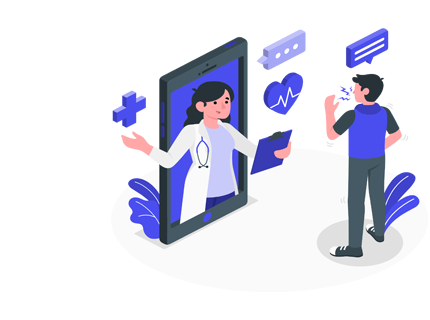
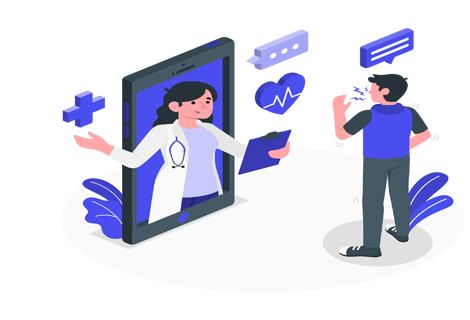
checkin

Changed region(s): [[0.1209, 0.0625, 0.9977, 0.8438]]

diff --git a/plans/startassure-elite.html b/plans/startassure-elite.html
@@ -20,6 +20,12 @@
      <link rel="stylesheet" type="text/css" href="css/style.css">
   
 <script src="https://cdn.jsdelivr.net/npm/bootstrap@4.5.3/dist/js/bootstrap.min.js" integrity="sha384-w1Q4orYjBQndcko6MimVbzY0tgp4pWB4lZ7lr30WKz0vr/aWKhXdBNmNb5D92v7s" crossorigin="anonymous"></script>
+
+<link rel="stylesheet" type="text/css" href="https://cdn.jsdelivr.net/gh/kenwheeler/slick@1.8.1/slick/slick-theme.css" />
+<link rel="stylesheet" type="text/css" href="https://cdn.jsdelivr.net/npm/slick-carousel@1.8.1/slick/slick.css" />
+<script type="text/javascript" src="https://cdn.jsdelivr.net/npm/slick-carousel@1.8.1/slick/slick.min.js"></script>
+
+
   
 </head>
 
@@ -51,7 +57,7 @@
   <section >
      <div class="container">
             <div class="row py-2 px-3 px-md-0">
-             <div class="col-12 col-md-6 col-sm-12 col-lg-6 col-xl-6 col-xxl-6" style="padding-bottom:50px;">
+             <div class="col-12 col-md-5 col-sm-12 col-lg-5 col-xl-5 col-xxl-5" style="padding-bottom:50px;">
          <p class=" mt-5 pl-4" style="padding-top:90px;letter-spacing: 1px; font-size:22px;">Jab HEALTH Rahe Sahi, <br> Toh Aap Rahe CAREFREE </p>
 <h2  style="font-size:55px;"> StartAssure </h2>
 <div class="pt-2">
@@ -67,52 +73,47 @@
 </div>
 </div>
  </div>
-<div class="col-12 col-md-6 col-sm-12 col-lg-5 col-xl-5 col-xxl-5 my-5 ">
+<div class="col-12 col-md-7 col-sm-12 col-lg-7 col-xl-7 col-xxl-7  ">
     <img src="images/online-doctor.png" class="img-fluid" style="padding-top:80px;">
      </div>
 </div>
-       
-            <div class="row">
-                <div class="col-sm-12 col-md-4 col-lg-2 col-xl-2 col-xxl-2">
-                    <div class="benefits text-center">
-                        <img src="images/doctor.png" class="img-fluid">
-                    </div>
-                    <p class="text-center pt-2"> Doctor on Call </p>
-                </div>
-                <div class="col-sm-12 col-md-4 col-lg-2 col-xl-2 col-xxl-2">
-                    <div class="benefits text-center">
-                        <img src="images/careteam.png" class="img-fluid">
-                    </div>
-                    <p class="text-center pt-2"> Care Team</p>
-                </div>
-                <div class="col-sm-12 col-md-4 col-lg-2 col-xl-2 col-xxl-2">
-                    <div class="benefits text-center">
-                        <img src="images/hospital.png" class="img-fluid">
-                    </div>
-                    <p class="text-center pt-2"> Hospicash </p>
-                </div>
-                <div class="col-sm-12 col-md-4 col-lg-2 col-xl-2 col-xxl-2">
-                    <div class="benefits text-center">
-                        <img src="images/i1.png" class="img-fluid">
-                    </div>
-                    <p class="text-center pt-2"> Lab Test & Scans </p>
+   </div>
+    </section>
+    <section style="background-color:#00a4fe;">
+         <div class="items">
+ 
+   <div class="service1 ">
+              <img src="images/doctor.png" class="img-fluid text-center">
+                  <p class="text-center pt-2"> Doctor on Call </p>
                 </div>
 
-                <div class="col-sm-12 col-md-4 col-lg-2 col-xl-2 col-xxl-2">
-                    <div class="benefits text-center">
-                        <img src="images/medicines.png" class="img-fluid">
-                    </div>
-                    <p class="text-center pt-2">Pharmacy & Medicines </p>
+                <div class=" service1 text-center">
+              <img src="images/hospital.png" class="img-fluid text-center">
+                  <p class="text-center pt-2">Hospicash </p>
                 </div>
-                <div class="col-sm-12 col-md-4 col-lg-2 col-xl-2 col-xxl-2">
-                    <div class="benefits text-center">
-                        <img src="images/tele-doctor.png" class="img-fluid">
-                    </div>
-                    <p class="text-center pt-2"> Online Gym & Wellness </p>
+
+                <div class=" service1 text-center">
+              <img src="images/i1.png" class="img-fluid text-center">
+                  <p class="text-center pt-2"> Lab Test & Scans </p>
                 </div>
-            </div>
-       </div>
+ <div class=" service1 text-center">
+              <img src="images/careteam.png" class="img-fluid text-center">
+                  <p class="text-center pt-2"> Care Team </p>
+                </div>
+  <div class=" service1 text-center">
+              <img src="images/panindia.png" class="img-fluid">
+                  <p class="text-center pt-2"> Pan India Coverage </p>
+                </div>
+ <div class=" service1 text-center">
+              <img src="images/clock.png" class="img-fluid">
+                  <p class="text-center pt-2">24*7 Support Team </p>
+                </div>
+ 
+</div>
     </section>
+
+
+
 
 
 <section class="py-3 px-3 px-md-0 " id="benefits">
@@ -432,51 +433,7 @@
                     </div>
                     <div class="row mt-3 d-flex">
 
-                       <!-- <div class="col-md-6">
-                                <div class="desk1 ml-4 ">
-                                    <div class="mt-4 footerbtn">
-                                        <a href="corporate-wellness.html" target="_blank" class=" border-green1 ">
-                                            Corporates
-                                            <i class="fa fa-chevron-right ml-2 text-right pl-109"></i>
-                                        </a>
-                                    </div>
-                                    <div class="mt-4 footerbtn">
-                                        <a href="insurance.html" target="_blank" class=" border-green1  ">
-                                            Insurance
-                                            Companies <i class="fa fa-chevron-right ml-2 pl-2 pb-2 pt-2"></i>
-                                        </a>
-                                    </div>
-                               </div>
-                            </div>
-                            <div class="col-md-6 ">
-                          <div class="desk1 ml-4  ">
-                                    <div class="mt-4 footerbtn">
-                                        <a href="agents.html" target="_blank" class=" border-green1 ">
-                                            Agents <i class="fa fa-chevron-right ml-2  pl-148"></i>
-                                        </a>
-                                    </div>
-                                    <div class="mt-4 footerbtn">
-                                        <a href="provider.html" target="_blank" class=" border-green1 ">
-                                            Providers <i class="fa fa-chevron-right ml-2 pt-2 pl-123 "></i>
-                                        </a>
-                                    </div>
-                                </div>
-                       </div> -->
-                <!-- <div class="col-md-12 d-flex justify-space-between w-100 mob1 ">
-                                <a href="corporate-wellness.html" target="_blank"
-                                   class="btn-class border-green1 ">
-                                    Corporates <i class="fa fa-chevron-right  float-right pt-2"></i>
-                                </a>
-                                <a href="insurance.html" target="_blank" class=" border-green1">
-                                    Insurance Companies <i class="fa fa-chevron-right  pl-3 pt-2 float-right"></i>
-                                </a>
-                                <a href="agents.html" target="_blank" class="btn-class border-green1 ">
-                                    Agents <i class="fa fa-chevron-right   float-right pt-2"></i>
-                                </a>
-                                <a href="provider.html" target="_blank" class="btn-class border-green1 ">
-                                    Providers <i class="fa fa-chevron-right  pt-2 float-right"></i>
-                                </a>
-                            </div> -->
+                  
                     </div>
 
                     <div class="row mt-5">
@@ -561,6 +518,53 @@
             </div>
         </div>
     </section>
+
+
+
+
+<script >
+    
+$(document).ready(function(){
+
+$('.items').slick({
+dots: false,
+infinite: true,
+speed: 800,
+autoplay: true,
+autoplaySpeed: 800000,
+slidesToShow: 3,
+slidesToScroll: 3,
+responsive: [
+{
+breakpoint: 1024,
+settings: {
+slidesToShow: 3,
+slidesToScroll: 3,
+infinite: true,
+dots: true
+}
+},
+{
+breakpoint: 600,
+settings: {
+slidesToShow: 2,
+slidesToScroll: 2
+}
+},
+{
+breakpoint: 480,
+settings: {
+slidesToShow: 1,
+slidesToScroll: 1
+}
+}
+
+]
+});
+});
+
+
+</script>
 
 </body>
 

diff --git a/plans/css/style.css b/plans/css/style.css
@@ -5305,7 +5305,7 @@ li {
 
 .demo,h4{padding:30px 0}
 .pricingTable,h4{text-align:center}
-body{padding:0;margin:0}
+
 .demo{background:#B2B2B2}
 h4{color:#444}
 .pricingTable{background:#fff;border-radius:10px;overflow:hidden;position:relative;transition:all .3s ease 0s}
@@ -5541,6 +5541,30 @@ h4{color:#444}
     padding:6px;
 }
 
+
+.service1{
+  border-radius:none;
+    height:130px;
+    padding:6px;
+    color: #ffffff;
+    font-weight:600;
+    font-size: 18px;
+}
+
+.service1:hover{
+    background-color:#eaeaea;
+    box-shadow: 0px 5px 10px 0px rgb(0 0 0 / 20%);
+    border-radius:none;
+   padding:6px;
+   color: #000000;
+  
+   
+}
+.service1 img{
+    width: 50px;
+    margin: auto;
+}
+
 .fa-1{
     font-size:9px; 
     vertical-align: middle;
@@ -5574,4 +5598,117 @@ h4{color:#444}
     color:#ffffff!important;
     background-color:#0f5fc2;
 }
+
+
+
+
+ @media (max-width:991.98px) {
+     .padding {
+         padding: 1.5rem
+     }
+ }
+
+ @media (max-width:767.98px) {
+     .padding {
+         padding: 1rem
+     }
+ }
+
+ .padding {
+     padding: 5rem
+ }
+
+ .card {
+     position: relative;
+     display: flex;
+     width: 600px;
+     flex-direction: column;
+     min-width: 0;
+     word-wrap: break-word;
+     background-color: #fff;
+     background-clip: border-box;
+     border: 1px solid #d2d2dc;
+     border-radius: 11px;
+     -webkit-box-shadow: 0px 0px 5px 0px rgb(249, 249, 250);
+     -moz-box-shadow: 0px 0px 5px 0px rgba(212, 182, 212, 1);
+     box-shadow: 0px 0px 5px 0px rgb(161, 163, 164)
+ }
+
+ .card .card-body {
+     padding: 1rem 1rem
+ }
+
+ .card-body {
+     flex: 1 1 auto;
+     padding: 1.25rem
+ }
+
+ p {
+     font-size: 0.875rem;
+     margin-bottom: .5rem;
+     line-height: 1.5rem
+ }
+
+ h4 {
+     line-height: .2 !important
+ }
+
+ .items {
+     width: 90%;
+     margin: 0px auto;
+     margin-top: 100px
+ }
+
+
+
+ .media iframe,
+ .media-content {
+     position: absolute;
+     top: 0;
+     bottom: 0;
+     left: 0;
+     right: 0;
+     border: 0;
+     border-radius: inherit;
+     background-size: cover;
+     background-repeat: no-repeat;
+     background-position: 50% 50%;
+     background-color: rgba(120, 120, 120, .1);
+     display: flex;
+     -webkit-box-pack: center;
+     -ms-flex-pack: center;
+     justify-content: center;
+     -webkit-box-align: center;
+     -ms-flex-align: center;
+     align-items: center
+ }
+
+ .media-content:before {
+     content: '';
+     position: absolute;
+     height: 10%;
+     width: 90%;
+     left: 5%;
+     bottom: 0;
+     background: inherit;
+     background-position-y: 100%;
+     filter: blur(10px)
+ }
+
+ .circle .media-content:before {
+     width: 40%;
+     left: 30%
+ }
+
+ .profile-image {
+     width: 100%;
+     height: 200px;
+     border-top-left-radius: 11px !important;
+     border-top-right-radius: 11px
+ }
+
+ .card-title {
+     font-size: 19px;
+     font-weight: 200
+ }
 
